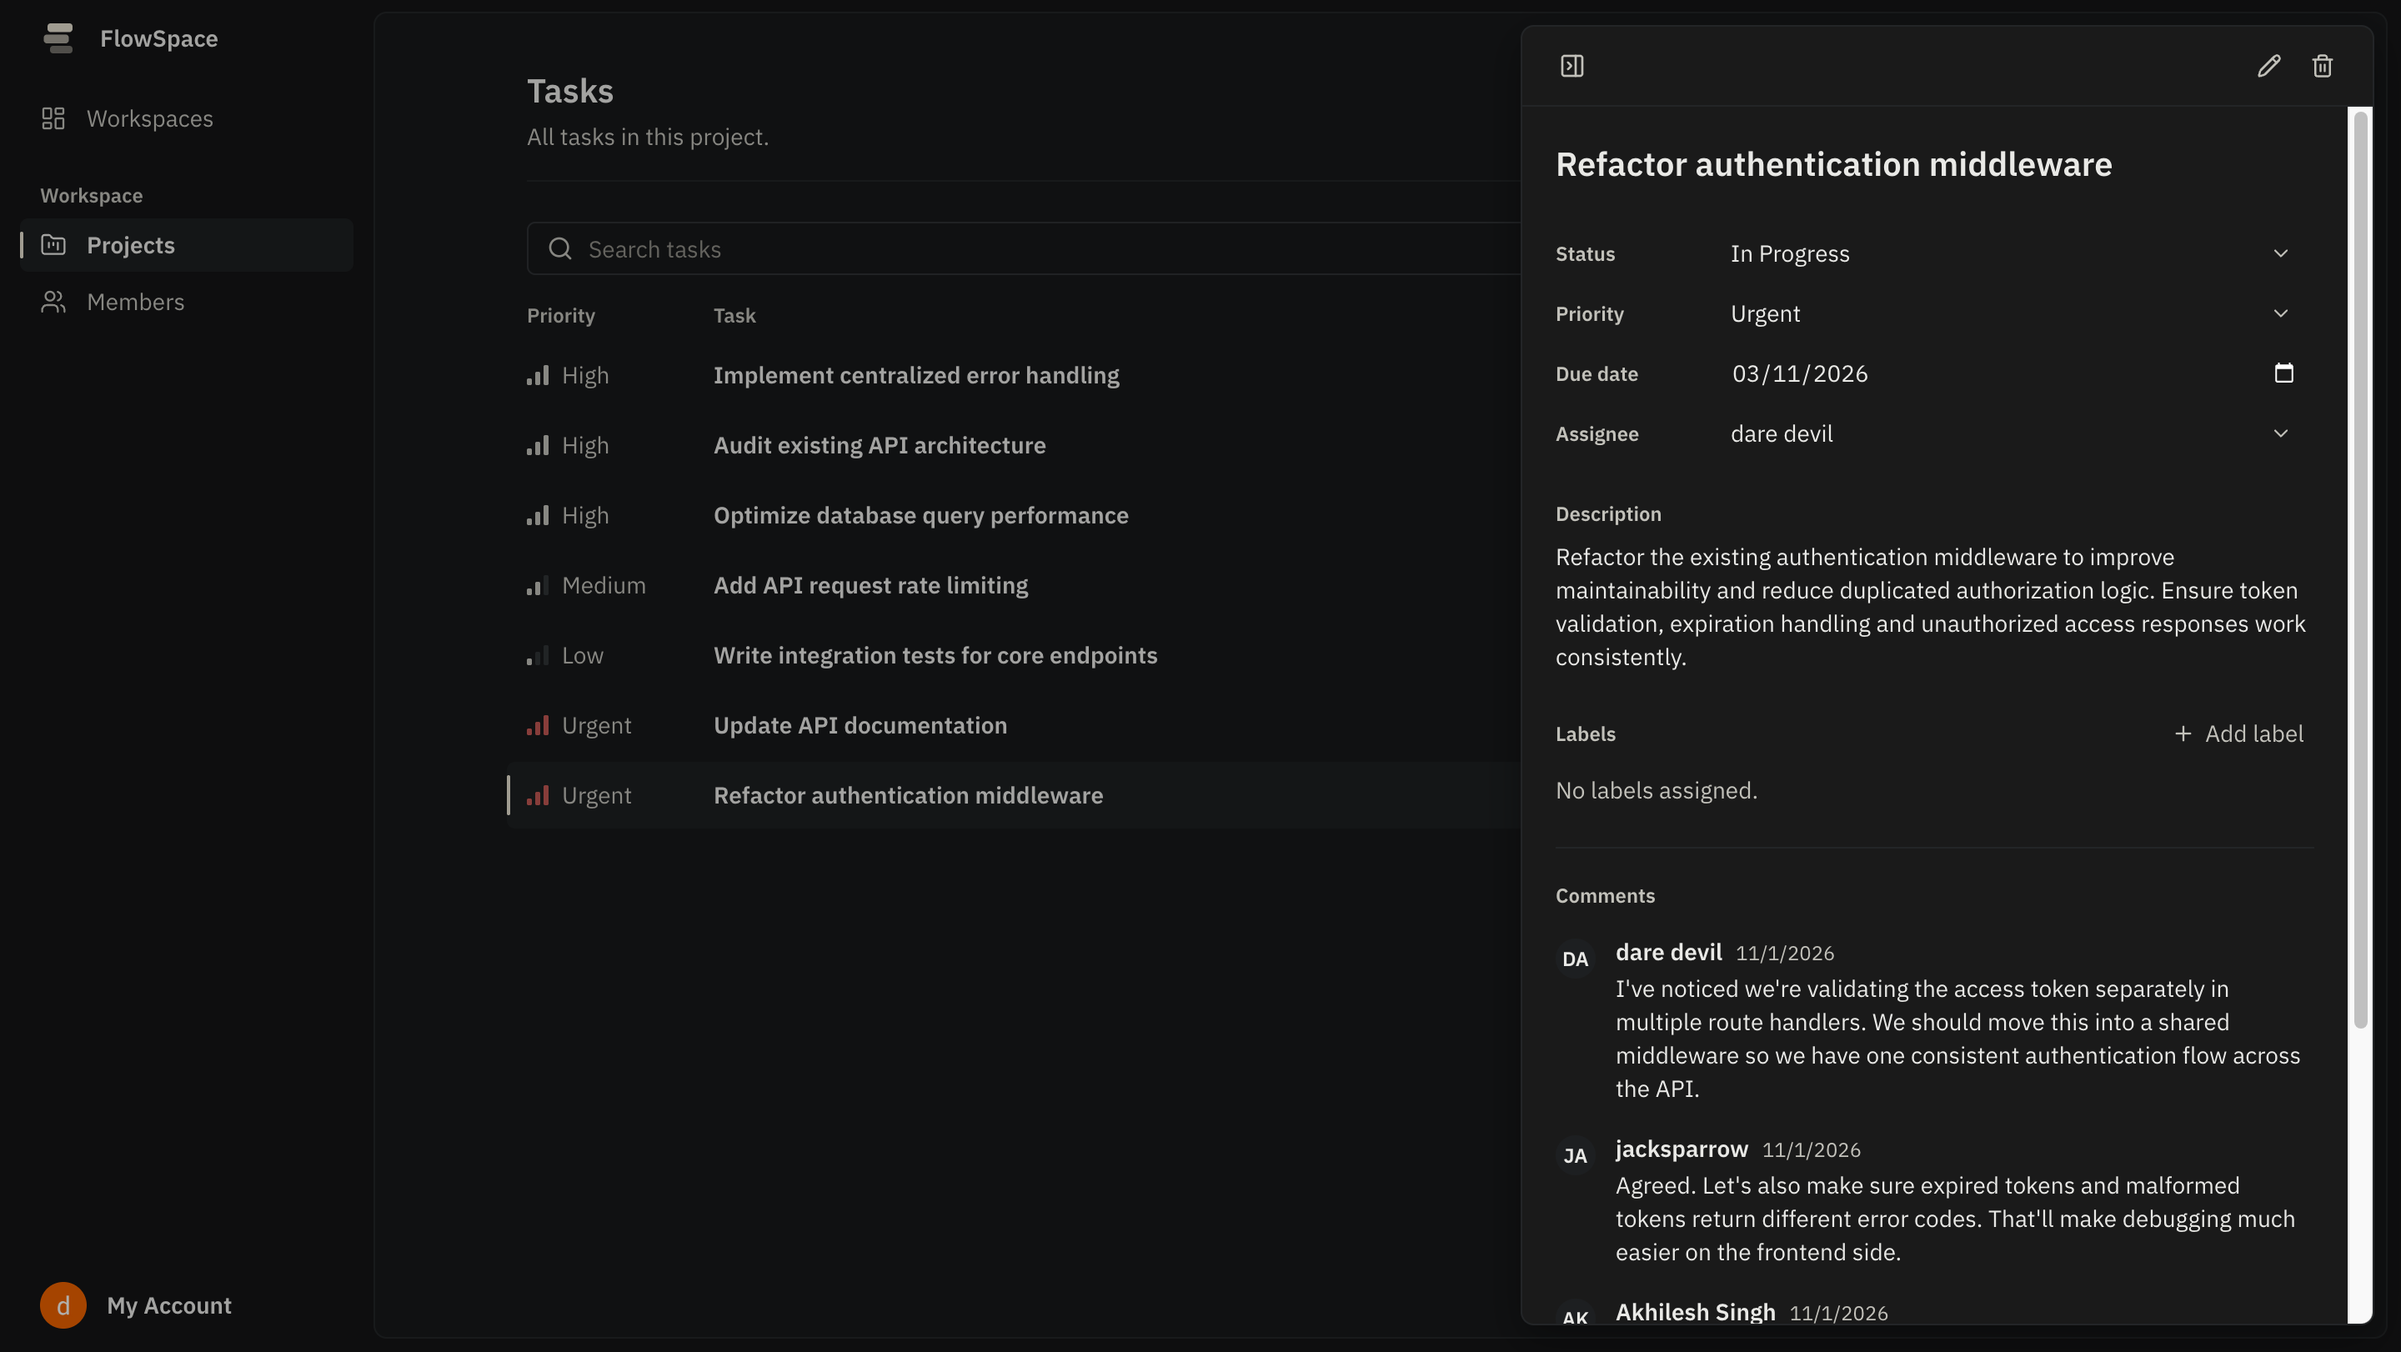
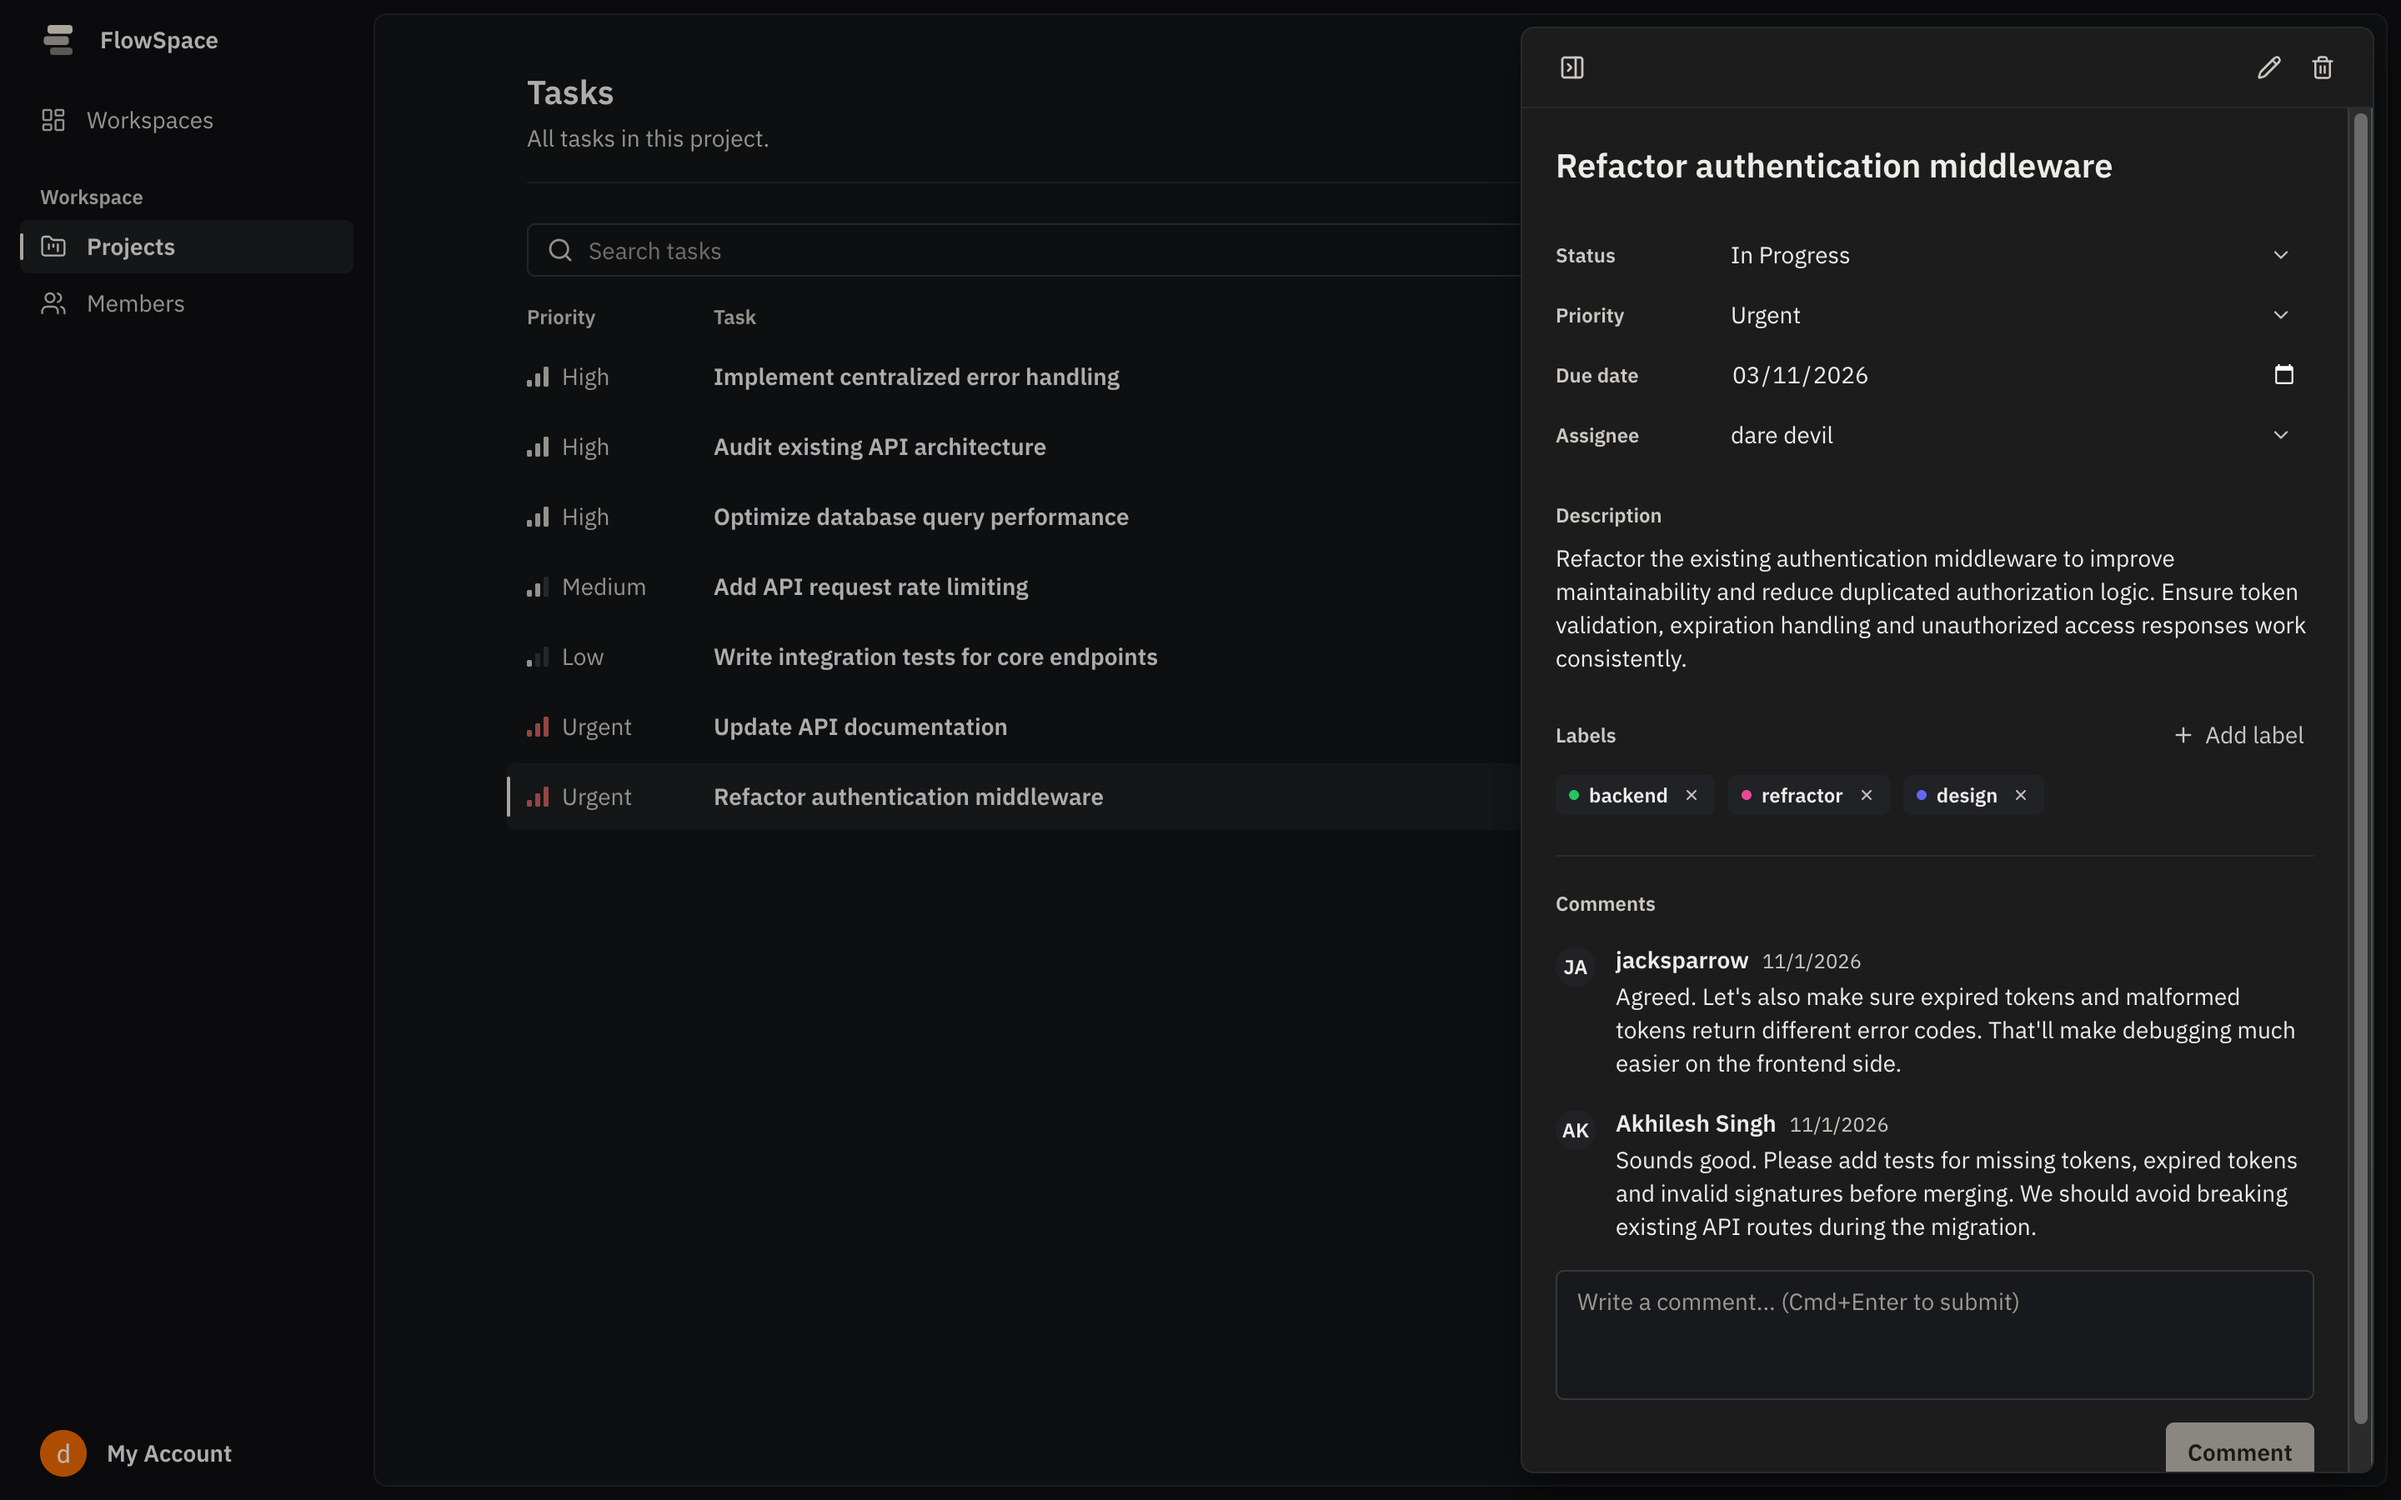
feat(landing): rebuild navbar, hero and features around real product screenshots, styles in globals

diff --git a/apps/web/src/components/landing/features.tsx b/apps/web/src/components/landing/features.tsx
@@ -1,151 +1,91 @@
-import {
-  ArrowUpRight,
-  Check,
-  CheckSquare,
-  FolderKanban,
-  MessageSquare,
-} from "lucide-react";
+import Image from "next/image";
+
+const statuses = [
+  { label: "Backlog", color: "var(--status-backlog)", hollow: true },
+  { label: "In Progress", color: "var(--status-progress)", hollow: false },
+  { label: "In Review", color: "var(--status-review)", hollow: false },
+  { label: "Done", color: "var(--status-done)", hollow: false },
+  { label: "Cancelled", color: "var(--status-cancelled)", hollow: false },
+];
+
+const roles = [
+  { name: "Owner", text: "Full control. Can't be removed." },
+  { name: "Admin", text: "Manages projects and members." },
+  { name: "Member", text: "Works on tasks." },
+  { name: "Viewer", text: "Follows the work, can't create tasks." },
+];
 
 export function Features() {
   return (
-    <section id="features" className="fs-features-section">
-      <div className="fs-features-container">
-        <header className="fs-features-intro">
-          <p className="fs-eyebrow">
-            <span aria-hidden="true" />
-            BUILT AROUND THE WORK
-          </p>
+    <section id="features" className="lp-section">
+      <div className="lp-container">
+        <div className="lp-section-head">
+          <h2 className="lp-h2">Plan in a list, run it on a board.</h2>
+        </div>
 
-          <div className="fs-features-intro-grid">
-            <h2>Work stays connected.</h2>
-
-            <p>
-              Projects give work a home. Tasks make ownership clear.
-              Discussions keep the context where your team needs it.
+        <div className="lp-feature">
+          <div className="lp-feature-copy">
+            <h3 className="lp-h3">Move work from backlog to done</h3>
+            <p className="lp-copy">
+              Every task has a status, a priority, an assignee and an optional
+              due date. View them as a list or a board, search by title, and
+              filter by status or priority.
             </p>
-          </div>
-        </header>
-
-        <article className="fs-feature-primary">
-          <div className="fs-feature-primary-copy">
-            <span className="fs-feature-index">01 / PROJECTS</span>
-
-            <FolderKanban
-              className="fs-feature-primary-icon"
-              size={21}
-              strokeWidth={1.7}
-              aria-hidden="true"
-            />
-
-            <h3>Start with a shared view of the work.</h3>
-
-            <p>
-              Keep related tasks together and give everyone a clear place
-              to find what belongs to a project.
-            </p>
-
-            <a className="fs-feature-text-link" href="#product">
-              Explore the workspace
-              <ArrowUpRight size={15} aria-hidden="true" />
-            </a>
+            <ul className="lp-statuses">
+              {statuses.map((status) => (
+                <li key={status.label}>
+                  <span
+                    className={`lp-dot${status.hollow ? " lp-dot-hollow" : ""}`}
+                    style={
+                      status.hollow
+                        ? { borderColor: status.color }
+                        : { backgroundColor: status.color }
+                    }
+                    aria-hidden="true"
+                  />
+                  {status.label}
+                </li>
+              ))}
+            </ul>
           </div>
 
-          <div className="fs-feature-project-preview">
-            <div className="fs-feature-preview-heading">
-              <div>
-                <span className="fs-feature-preview-label">WORKSPACE</span>
-                <h4>Studio workspace</h4>
-              </div>
-
-              <span className="fs-feature-preview-count">03 projects</span>
-            </div>
-
-            <div className="fs-feature-project-line">
-              <span className="fs-feature-project-name">
-                <span className="fs-feature-dot fs-feature-dot-rose" />
-                Product
-              </span>
-
-              <span>Onboarding and product improvements</span>
-
-              <span className="fs-feature-project-arrow">
-                <ArrowUpRight size={15} aria-hidden="true" />
-              </span>
-            </div>
-
-            <div className="fs-feature-project-line">
-              <span className="fs-feature-project-name">
-                <span className="fs-feature-dot fs-feature-dot-blue" />
-                Engineering
-              </span>
-
-              <span>API, infrastructure, and implementation</span>
-
-              <span className="fs-feature-project-arrow">
-                <ArrowUpRight size={15} aria-hidden="true" />
-              </span>
-            </div>
-
-            <div className="fs-feature-project-line">
-              <span className="fs-feature-project-name">
-                <span className="fs-feature-dot fs-feature-dot-green" />
-                Operations
-              </span>
-
-              <span>Planning and ongoing maintenance</span>
-
-              <span className="fs-feature-project-arrow">
-                <ArrowUpRight size={15} aria-hidden="true" />
-              </span>
-            </div>
+          <div className="lp-shot">
+            <Image
+              src="/landing/board.png"
+              alt="FlowSpace board view with tasks grouped into Backlog, In Progress, In Review, Done and Cancelled columns"
+              width={2876}
+              height={1620}
+              sizes="(min-width: 1120px) 640px, 100vw"
+            />
           </div>
-        </article>
+        </div>
 
-        <div className="fs-feature-supporting">
-          <article className="fs-feature-support">
-            <span className="fs-feature-index">02 / TASKS</span>
-
-            <CheckSquare
-              className="fs-feature-support-icon fs-feature-support-blue"
-              size={19}
-              aria-hidden="true"
-            />
-
-            <h3>Make the next step clear.</h3>
-
-            <p>
-              Track status, priority, and ownership without losing sight
-              of the larger project.
+        <div className="lp-feature lp-feature-reverse">
+          <div className="lp-feature-copy">
+            <h3 className="lp-h3">Control who can do what</h3>
+            <p className="lp-copy">
+              Invite people by email and give each one a role in the
+              workspace.
             </p>
+            <dl className="lp-roles">
+              {roles.map((role) => (
+                <div key={role.name} style={{ display: "contents" }}>
+                  <dt>{role.name}</dt>
+                  <dd>{role.text}</dd>
+                </div>
+              ))}
+            </dl>
+          </div>
 
-            <div className="fs-feature-task-line">
-              <CheckSquare size={14} aria-hidden="true" />
-              <span className="fs-feature-task-name">Review API changes</span>
-              <span className="fs-feature-task-status">In review</span>
-            </div>
-          </article>
-
-          <article className="fs-feature-support">
-            <span className="fs-feature-index">03 / DISCUSSIONS</span>
-
-            <MessageSquare
-              className="fs-feature-support-icon fs-feature-support-green"
-              size={19}
-              aria-hidden="true"
+          <div className="lp-shot">
+            <Image
+              src="/landing/members.png"
+              alt="FlowSpace members page listing four people with Owner, Admin, Member and Viewer roles"
+              width={2880}
+              height={1800}
+              sizes="(min-width: 1120px) 640px, 100vw"
             />
-
-            <h3>Keep the context close.</h3>
-
-            <p>
-              Keep feedback and decisions alongside the tasks they belong to.
-            </p>
-
-            <div className="fs-feature-comment-line">
-              <span className="fs-feature-comment-avatar">AS</span>
-              <span className="fs-feature-comment-text">Ready for review.</span>
-              <Check size={14} aria-hidden="true" />
-            </div>
-          </article>
+          </div>
         </div>
       </div>
     </section>

diff --git a/apps/web/src/app/globals.css b/apps/web/src/app/globals.css
@@ -243,3 +243,115 @@ select.native-select {
 html {
   color-scheme: dark;
 }
+
+/* Landing: sections */
+
+.lp-section {
+  padding-bottom: var(--lp-gap);
+}
+
+.lp-section-head {
+  max-width: 640px;
+  margin-bottom: 40px;
+}
+
+.lp-h2 {
+  font-size: var(--lp-title);
+  font-weight: 600;
+  line-height: 1.2;
+  letter-spacing: -0.01em;
+  color: var(--color-text);
+}
+
+.lp-h3 {
+  font-size: var(--text-large);
+  font-weight: 600;
+  line-height: var(--leading-large);
+  color: var(--color-text);
+}
+
+.lp-copy {
+  max-width: 44ch;
+  margin-top: 12px;
+  font-size: var(--lp-body);
+  line-height: 1.6;
+  color: var(--color-text-secondary);
+}
+
+.lp-feature {
+  display: grid;
+  grid-template-columns: minmax(0, 4fr) minmax(0, 7fr);
+  gap: 48px;
+  align-items: center;
+}
+
+.lp-feature + .lp-feature {
+  margin-top: 72px;
+}
+
+.lp-feature .lp-shot {
+  margin-top: 0;
+}
+
+.lp-feature-reverse {
+  grid-template-columns: minmax(0, 7fr) minmax(0, 4fr);
+}
+
+.lp-feature-reverse .lp-feature-copy {
+  order: 2;
+}
+
+.lp-statuses {
+  display: flex;
+  flex-wrap: wrap;
+  gap: 8px 16px;
+  margin-top: 20px;
+}
+
+.lp-statuses li {
+  display: inline-flex;
+  align-items: center;
+  gap: 8px;
+  font-size: var(--text-medium);
+  color: var(--color-text-secondary);
+}
+
+.lp-dot {
+  width: 8px;
+  height: 8px;
+  flex-shrink: 0;
+  border-radius: 50%;
+}
+
+.lp-dot-hollow {
+  border: 1.5px solid;
+}
+
+.lp-roles {
+  display: grid;
+  grid-template-columns: auto minmax(0, 1fr);
+  gap: 8px 20px;
+  margin-top: 20px;
+  font-size: var(--text-medium);
+}
+
+.lp-roles dt {
+  font-weight: 600;
+  color: var(--color-text);
+}
+
+.lp-roles dd {
+  color: var(--color-text-secondary);
+}
+
+@media (max-width: 860px) {
+  .lp-feature,
+  .lp-feature-reverse {
+    grid-template-columns: minmax(0, 1fr);
+    gap: 24px;
+  }
+
+  .lp-feature-reverse .lp-feature-copy {
+    order: 0;
+  }
+}
